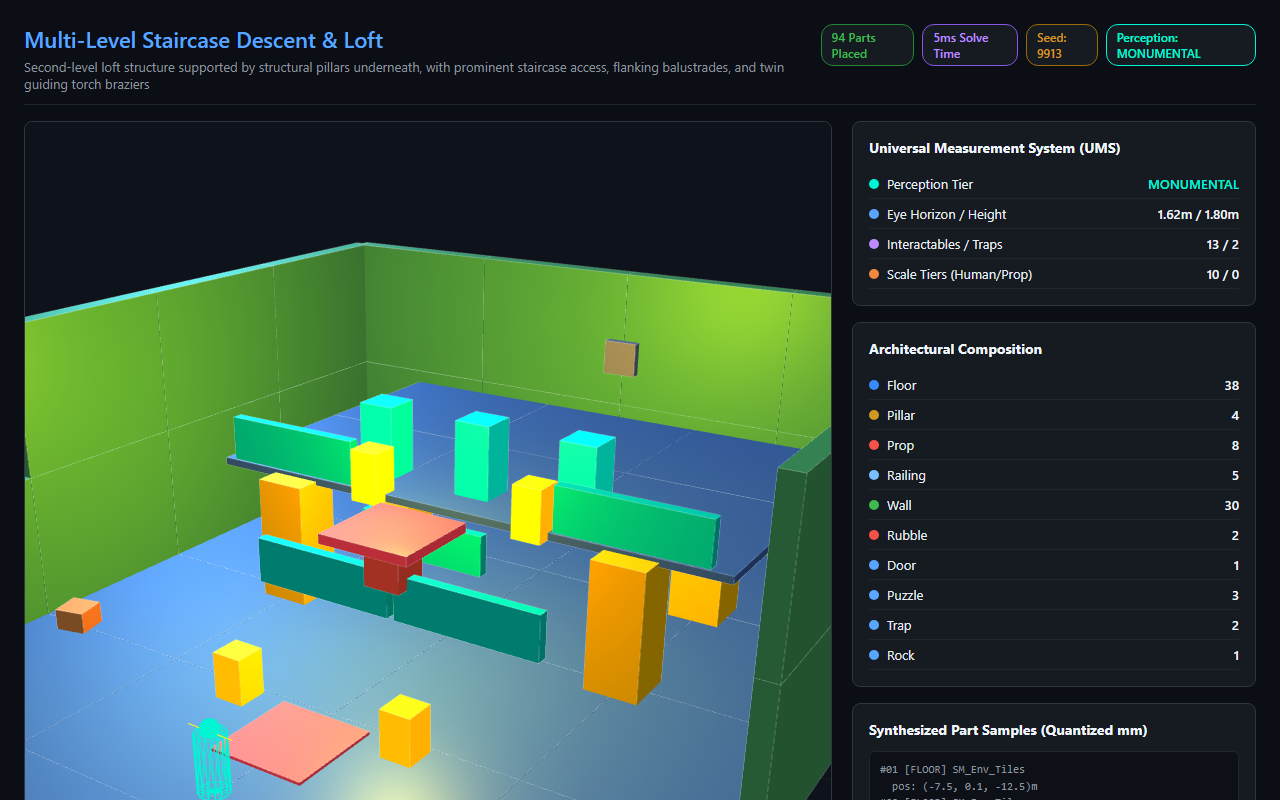
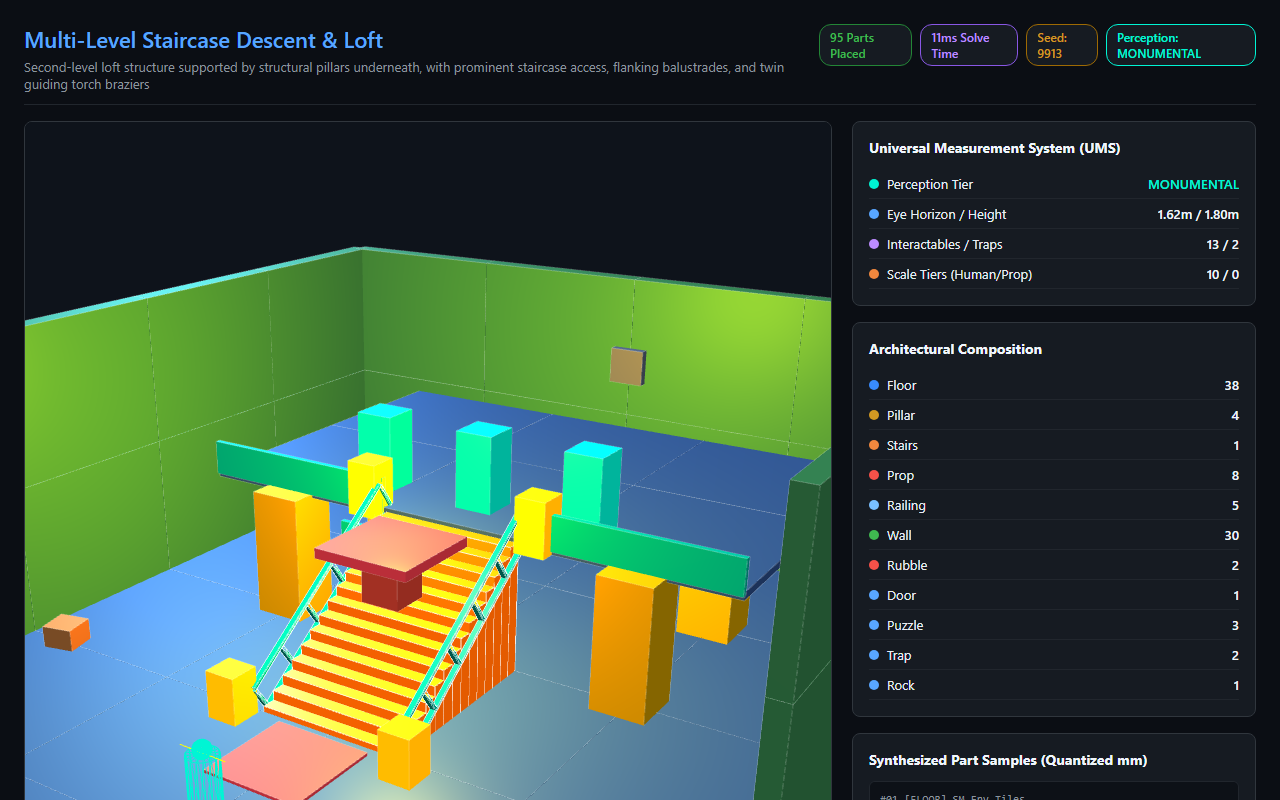
fix(synthesis): align staircase handrails with incline pitch and loft balustrades

diff --git a/packages/synthesis/src/synthesizer.ts b/packages/synthesis/src/synthesizer.ts
@@ -904,18 +904,26 @@ export function synthesizeAssembly(problem: SynthesisProblem): SynthesisOutput {
       }
 
       // Flanking staircase balustrades / handrails rising along stair flanks
-      for (const sx of [-2.1, 2.1]) {
-        const stairRail = pickCatPart("railing");
+      // Stairs run from Z = 0.0 (ground, lowerY) to Z = -5.0 (loft, upperY), width = 3.8m (tread edges X = ±1.9m)
+      // Stair slope: rise = 3.5m, run = 5.0m, pitch angle theta = atan2(3.5, 5.0) = ~34.99 deg (~0.6109 rad)
+      // Handrails flank both sides at X = ±2.0m, pitched along the incline so they ascend seamlessly from ground to loft
+      const stairPitchRad = Math.atan2(upperY - lowerY, 5.0);
+      const stairPitchQuat = new THREE.Quaternion().setFromEuler(new THREE.Euler(stairPitchRad, 0, 0, "YXZ"));
+      for (const sx of [-2.0, 2.0]) {
+        const stairRail = pickCatPart("railing", "angle") || pickCatPart("railing");
         if (stairRail) {
-          addPlacement(stairRail, new THREE.Vector3(sx, lowerY + 2.2, -2.5), yawQuat(0));
+          // Midpoint at Z = -2.5, Y = lowerY + 1.75 + 0.45 (handrail center 0.45m above stair slope center, 0.9m height)
+          addPlacement(stairRail, new THREE.Vector3(sx, lowerY + 2.2, -2.5), stairPitchQuat);
         }
       }
 
       // Phase 5: Loft Balcony Railings & Landing Torch Markers along open drop overlooking main hall
-      for (const rx of [-5.0, 5.0]) {
+      // Loft opening for staircase is X in [-2.0, 2.0] at Z = -5.0; balcony edges span X in [-7.5, -2.0] and [2.0, 7.5]
+      // Balcony railings centered at X = ±4.75m, Y = upperY + 0.45m to align flush with the stair handrail tops
+      for (const rx of [-4.75, 4.75]) {
         const rail = pickCatPart("railing");
         if (rail) {
-          addPlacement(rail, new THREE.Vector3(rx, upperY + 0.8, -5.0), yawQuat(0));
+          addPlacement(rail, new THREE.Vector3(rx, upperY + 0.45, -5.0), yawQuat(0));
         }
       }
       for (const tx of [-2.4, 2.4]) {
